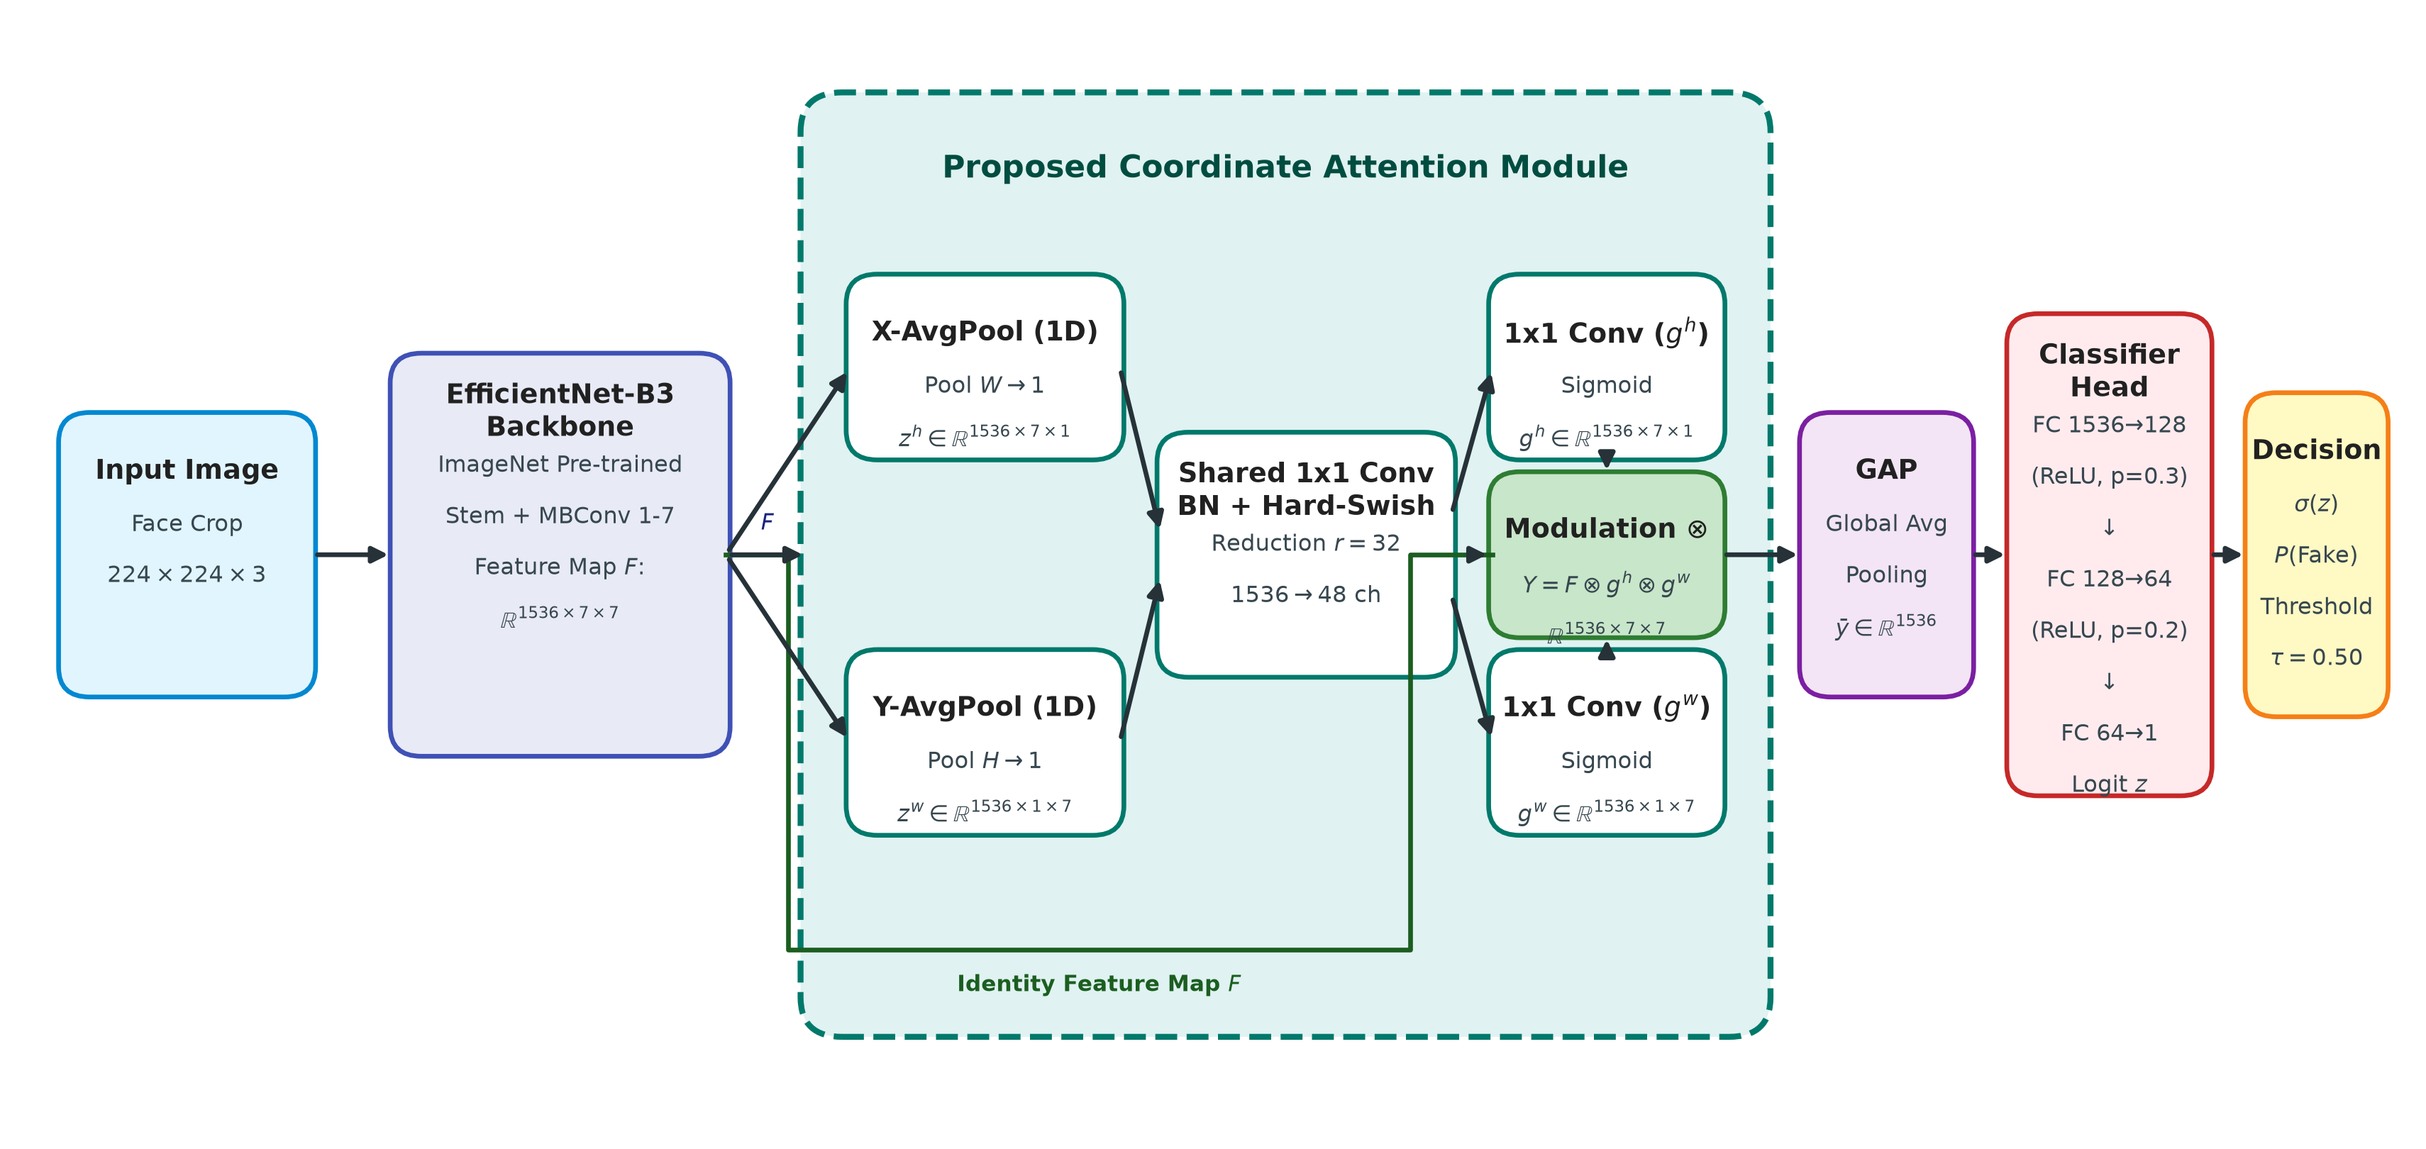
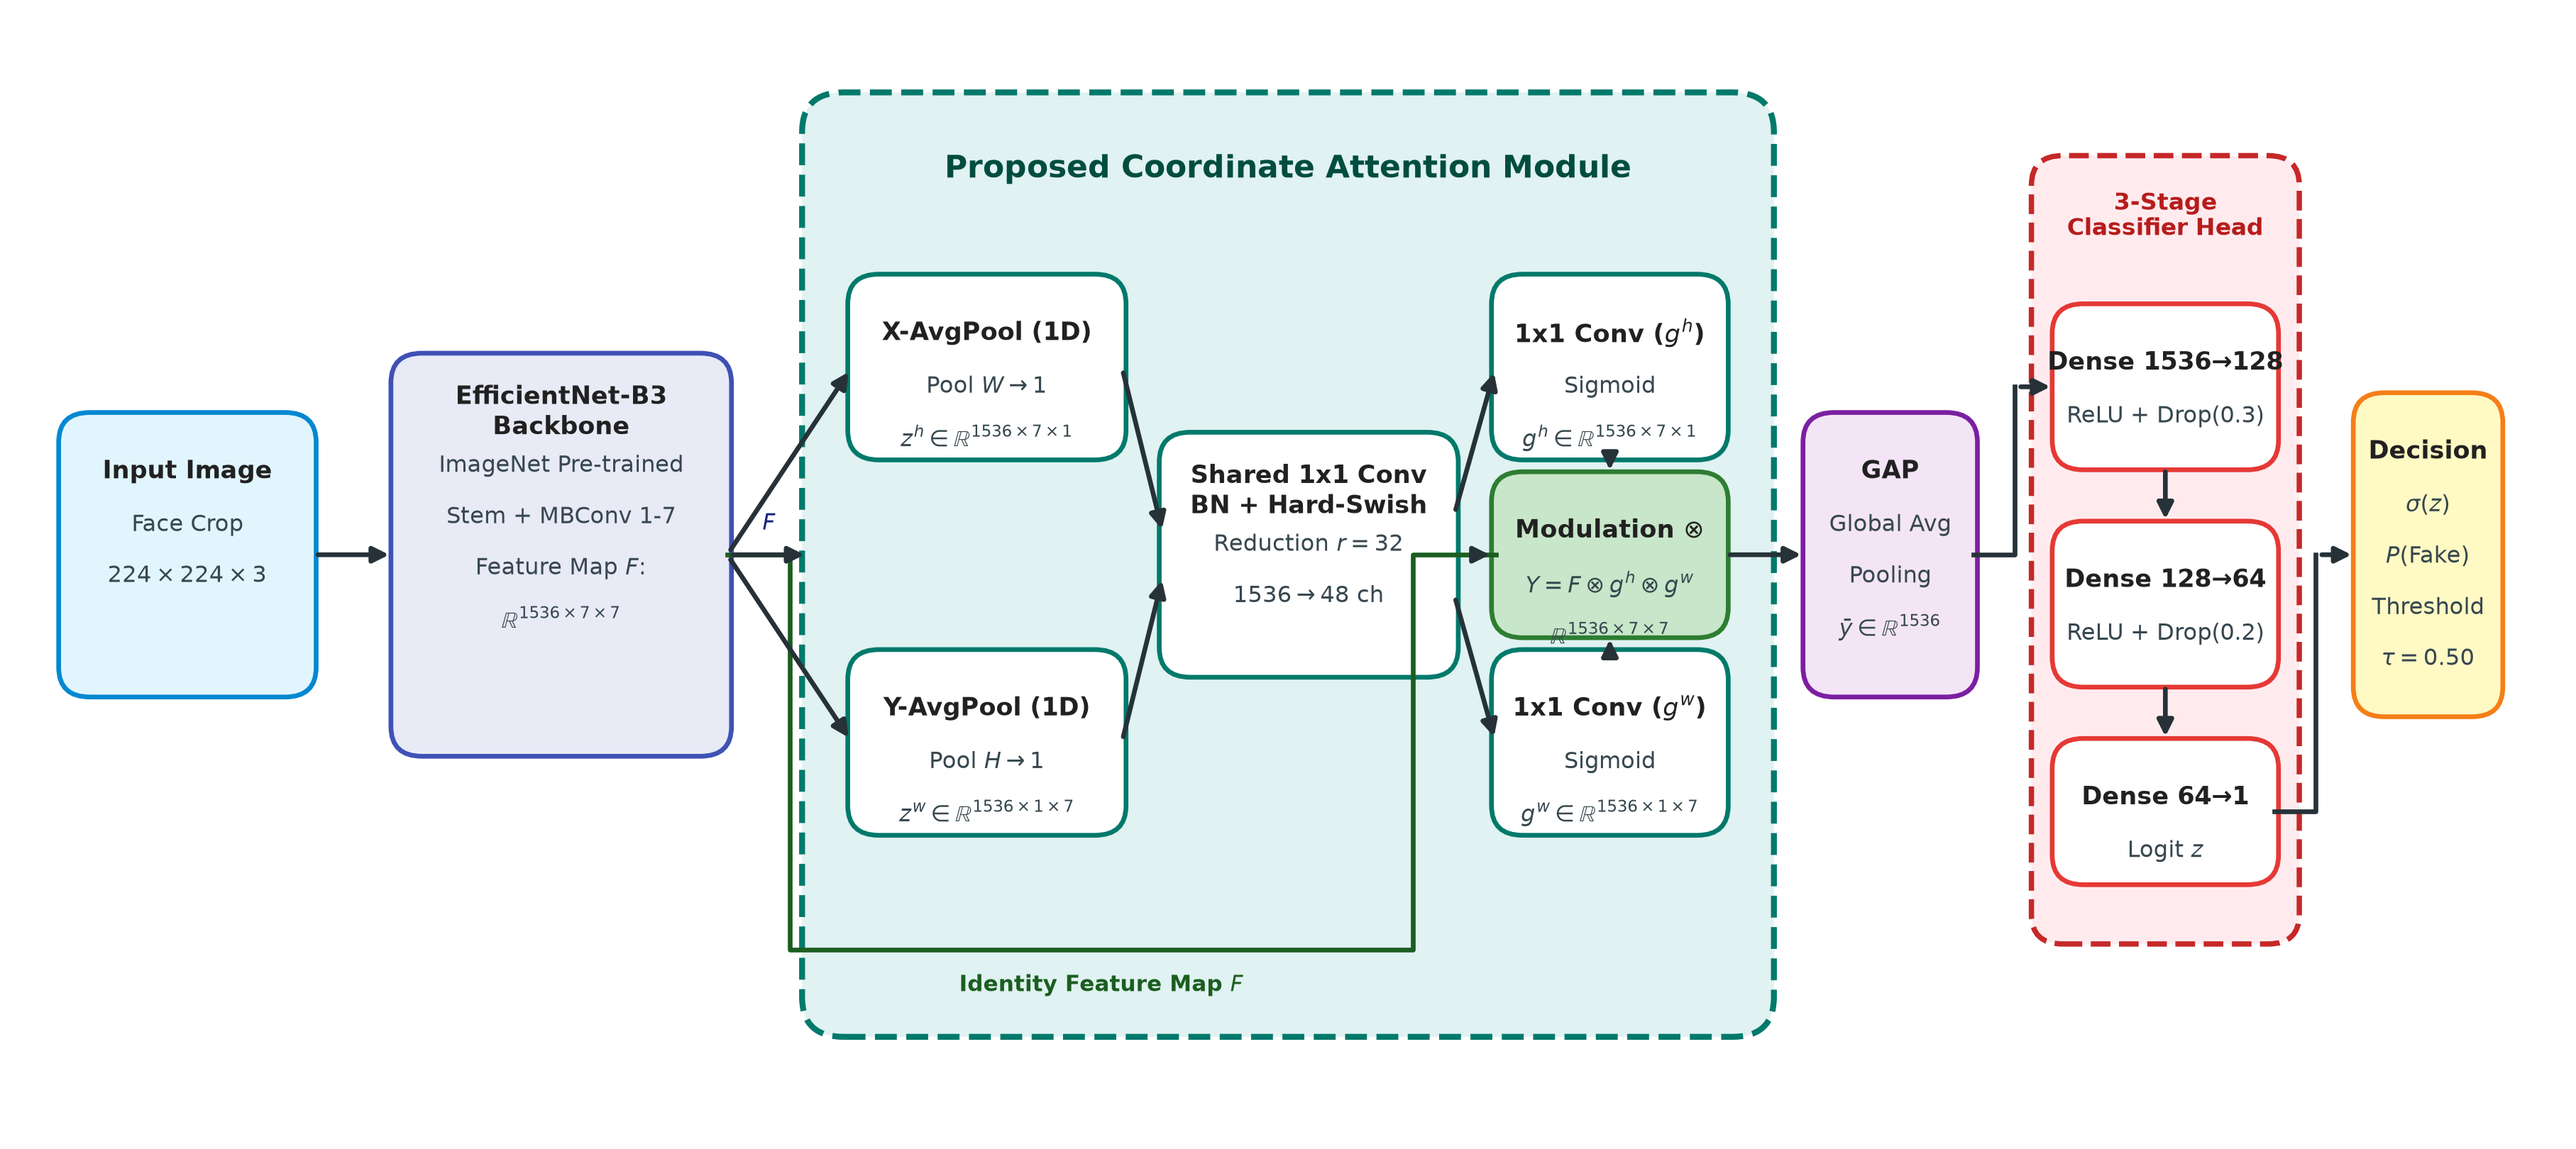
style(diagram): add sequential downward arrows inside 3-stage classifier head

diff --git a/scripts/generate_drawio_and_diagram.py b/scripts/generate_drawio_and_diagram.py
@@ -153,17 +153,25 @@ def generate_drawio_xml(output_path):
 
         <!-- 5. Classifier Head Container -->
         <mxCell id="head_container" value="&lt;b style=&quot;color: #B71C1C;&quot;&gt;3-Stage Classifier Head&lt;/b&gt;" style="rounded=1;whiteSpace=wrap;html=1;fillColor=#FFEBEE;strokeColor=#C62828;strokeWidth=2;strokeDashed=1;verticalAlign=top;align=center;spacingTop=8;fontSize=11;" vertex="1" parent="1">
-          <mxGeometry x="1275" y="160" width="165" height="175" as="geometry"/>
+          <mxGeometry x="1275" y="155" width="165" height="195" as="geometry"/>
         </mxCell>
 
         <mxCell id="fc1" value="Dense 1536 &amp;rarr; 128&lt;br&gt;ReLU + Dropout (0.3)" style="rounded=1;whiteSpace=wrap;html=1;fillColor=#FFFFFF;strokeColor=#E53935;strokeWidth=1;fontSize=10;" vertex="1" parent="1">
-          <mxGeometry x="1290" y="195" width="135" height="35" as="geometry"/>
+          <mxGeometry x="1290" y="190" width="135" height="35" as="geometry"/>
         </mxCell>
         <mxCell id="fc2" value="Dense 128 &amp;rarr; 64&lt;br&gt;ReLU + Dropout (0.2)" style="rounded=1;whiteSpace=wrap;html=1;fillColor=#FFFFFF;strokeColor=#E53935;strokeWidth=1;fontSize=10;" vertex="1" parent="1">
-          <mxGeometry x="1290" y="240" width="135" height="35" as="geometry"/>
+          <mxGeometry x="1290" y="245" width="135" height="35" as="geometry"/>
         </mxCell>
         <mxCell id="fc3" value="Dense 64 &amp;rarr; 1 (Logit z)" style="rounded=1;whiteSpace=wrap;html=1;fillColor=#FFFFFF;strokeColor=#E53935;strokeWidth=1;fontSize=10;" vertex="1" parent="1">
-          <mxGeometry x="1290" y="285" width="135" height="30" as="geometry"/>
+          <mxGeometry x="1290" y="300" width="135" height="30" as="geometry"/>
+        </mxCell>
+
+        <!-- Internal Downward Connecting Arrows in Classifier Head -->
+        <mxCell id="edge_fc1_to_fc2" style="edgeStyle=orthogonalEdgeStyle;rounded=0;orthogonalLoop=1;jettySize=auto;html=1;strokeColor=#37474F;strokeWidth=1.5;endArrow=classic;" edge="1" parent="1" source="fc1" target="fc2">
+          <mxGeometry relative="1" as="geometry"/>
+        </mxCell>
+        <mxCell id="edge_fc2_to_fc3" style="edgeStyle=orthogonalEdgeStyle;rounded=0;orthogonalLoop=1;jettySize=auto;html=1;strokeColor=#37474F;strokeWidth=1.5;endArrow=classic;" edge="1" parent="1" source="fc2" target="fc3">
+          <mxGeometry relative="1" as="geometry"/>
         </mxCell>
 
         <!-- Arrow: GAP -> Classifier Head -->
@@ -179,7 +187,7 @@ def generate_drawio_xml(output_path):
         <!-- Arrow: FC3 -> Decision -->
         <mxCell id="edge_fc_to_decision" style="edgeStyle=orthogonalEdgeStyle;rounded=0;orthogonalLoop=1;jettySize=auto;html=1;strokeColor=#37474F;strokeWidth=2;endArrow=classic;" edge="1" parent="1" source="fc3" target="decision_box">
           <mxGeometry relative="1" as="geometry">
-            <Array points="1450" y="300"/>
+            <Array points="1450" y="315"/>
             <Array points="1450" y="247"/>
           </mxGeometry>
         </mxCell>
@@ -194,8 +202,8 @@ def generate_drawio_xml(output_path):
     print(f"Generated clean left-to-right draw.io XML at: {output_path}")
 
 def generate_clean_block_diagram_png(output_path):
-    fig, ax = plt.subplots(figsize=(11.5, 5.5), dpi=300)
-    ax.set_xlim(0, 115)
+    fig, ax = plt.subplots(figsize=(12.2, 5.5), dpi=300)
+    ax.set_xlim(0, 122)
     ax.set_ylim(0, 56)
     ax.axis('off')
 
@@ -228,7 +236,7 @@ def generate_clean_block_diagram_png(output_path):
         ax.add_patch(box)
         if title:
             ax.text(x + w/2, y + h - 2.8, title, ha='center', va='center',
-                    fontsize=9.2, fontweight='bold', color=c_text)
+                    fontsize=8.5, fontweight='bold', color=c_text)
         curr_y = y + h - 5.5 if title else y + h/2 + 1.2 * (len(lines)-1)
         for line in lines:
             ax.text(x + w/2, curr_y, line, ha='center', va='center',
@@ -329,23 +337,45 @@ def generate_clean_block_diagram_png(output_path):
         "Pooling",
         "$\\bar{y} \\in \\mathbb{R}^{1536}$"
     ], c_gap_bg, c_gap_border)
-    draw_arrow(94, 29, 96, 29)
 
-    # 5. Classifier Head
-    draw_card(96, 17, 9.5, 24, "Classifier\nHead", [
-        "FC 1536→128",
-        "(ReLU, p=0.3)",
-        "↓",
-        "FC 128→64",
-        "(ReLU, p=0.2)",
-        "↓",
-        "FC 64→1",
+    # 5. Classifier Head Container with 3 Sequential Stages
+    head_box = FancyBboxPatch((97, 9.5), 12.5, 39.5, boxstyle="round,pad=0.2,rounding_size=1.5",
+                              facecolor=c_head_bg, edgecolor=c_head_border, linewidth=1.8, linestyle='--')
+    ax.add_patch(head_box)
+    ax.text(103.25, 46.2, "3-Stage\nClassifier Head", ha='center', va='center',
+            fontsize=8.0, fontweight='bold', color='#B71C1C', linespacing=0.95)
+
+    # Arrow from GAP into Dense 1536->128
+    ax.plot([94, 96, 96], [29, 29, 37.5], color='#263238', lw=1.6)
+    draw_arrow(96, 37.5, 98, 37.5)
+
+    # Sub-box 1
+    draw_card(98, 33.5, 10.5, 8, "Dense 1536→128", [
+        "ReLU + Drop(0.3)"
+    ], '#FFFFFF', '#E53935')
+
+    # Downward arrow 1 -> 2
+    draw_arrow(103.25, 33.5, 103.25, 30.5)
+
+    # Sub-box 2
+    draw_card(98, 22.5, 10.5, 8, "Dense 128→64", [
+        "ReLU + Drop(0.2)"
+    ], '#FFFFFF', '#E53935')
+
+    # Downward arrow 2 -> 3
+    draw_arrow(103.25, 22.5, 103.25, 19.5)
+
+    # Sub-box 3
+    draw_card(98, 12.5, 10.5, 7, "Dense 64→1", [
         "Logit $z$"
-    ], c_head_bg, c_head_border)
-    draw_arrow(105.5, 29, 107.5, 29)
+    ], '#FFFFFF', '#E53935')
+
+    # Arrow from Dense 64->1 into Decision Box
+    ax.plot([108.5, 110.5, 110.5], [16, 16, 29], color='#263238', lw=1.6)
+    draw_arrow(110.5, 29, 112.5, 29)
 
     # 6. Decision
-    draw_card(107.5, 21, 6.5, 16, "Decision", [
+    draw_card(112.5, 21, 6.8, 16, "Decision", [
         "$\\sigma(z)$",
         "$P(\\text{Fake})$",
         "Threshold",
